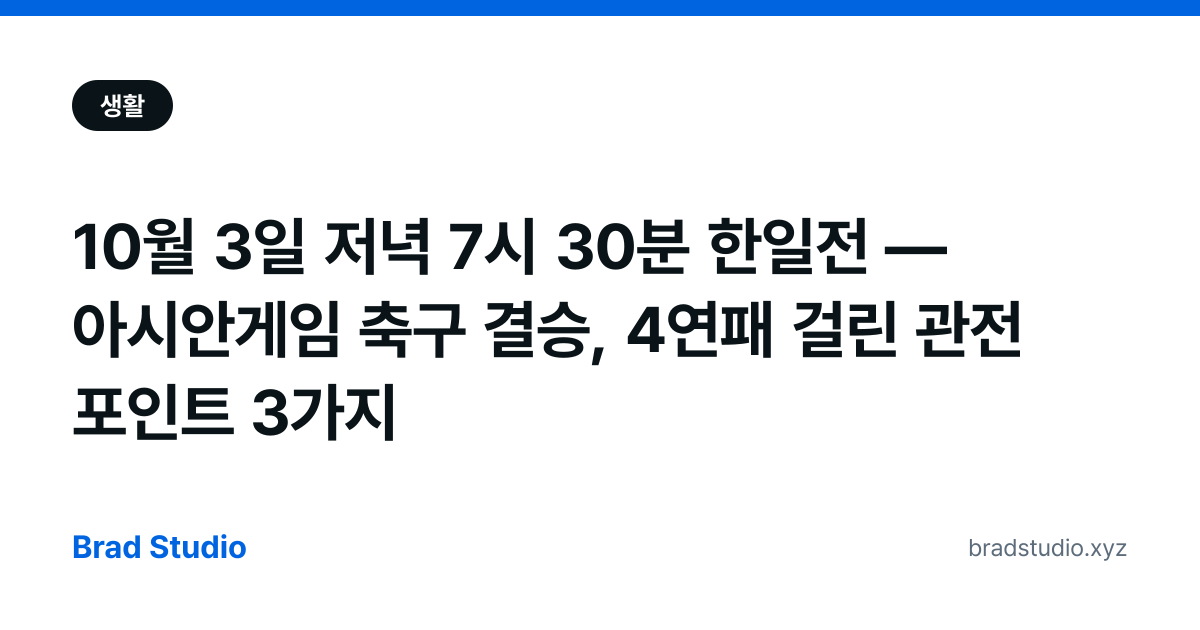
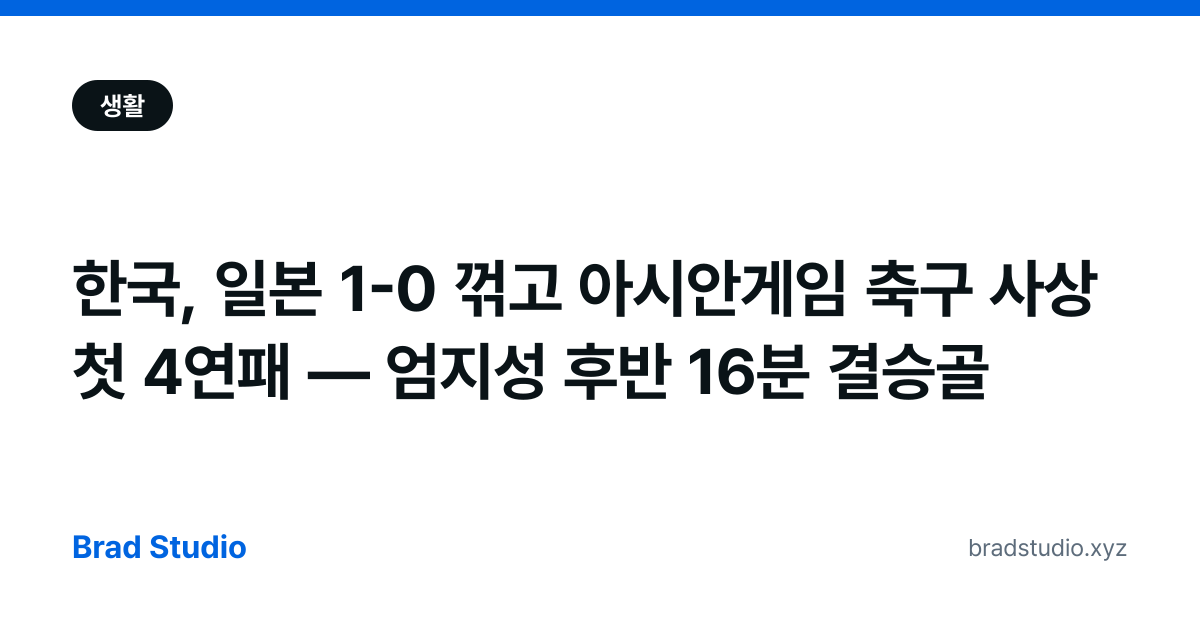
아시안게임 축구 결승 결과 반영: 한국 1-0 일본, 엄지성 결승골, 4연패
Claude-Session: https://claude.ai/code/session_016W68o6eYMen6oLnjrGLJi9

Changed region(s): [[0.0617, 0.3317, 0.925, 0.7238]]

diff --git a/src/content/blog/asian-games-football-final-2026.md b/src/content/blog/asian-games-football-final-2026.md
@@ -1,8 +1,9 @@
 ---
 contentId: "bs-20261001-001"
-title: '10월 3일 저녁 7시 30분 한일전 — 아시안게임 축구 결승, 4연패 걸린 관전 포인트 3가지'
-description: '2026 아이치·나고야 아시안게임 남자축구 결승은 10월 3일(토) 오후 7시 30분 도요타 스타디움 한일전입니다. 한국은 중국을 2-1로, 일본은 우즈베키스탄을 승부차기 9-8로 꺾었습니다. 4회 연속 금메달, 3대회 연속 결승 한일전, 중계 채널을 정리했습니다.'
+title: '한국, 일본 1-0 꺾고 아시안게임 축구 사상 첫 4연패 — 엄지성 후반 16분 결승골'
+description: '한국 U-23 대표팀이 10월 3일 도요타 스타디움에서 열린 2026 아이치·나고야 아시안게임 남자축구 결승에서 개최국 일본을 1-0으로 이겼습니다. 엄지성이 후반 16분 결승골을 넣었고, 한국은 아시안게임 남자축구 사상 처음 4회 연속 금메달을 땄습니다. 3대회 연속 결승 한일전 전승 기록과 준결승까지 흐름을 정리했습니다.'
 pubDate: 2026-10-01
+updatedDate: 2026-10-03
 thumbnail:
   url: 'https://images.unsplash.com/photo-1522778119026-d647f0596c20?crop=entropy&cs=tinysrgb&fit=max&fm=jpg&q=80&w=1080'
   alt: '조명이 켜진 축구 경기장'
@@ -23,7 +24,7 @@ secondaryKeywords:
   - '아시안게임 한일전 시간'
   - '아시안게임 축구 결승 중계'
   - '아시안게임 축구 4연패'
-  - '한국 중국 2-1'
+  - '엄지성 결승골'
   - '도요타 스타디움'
 intent: informational
 funnelStage: awareness
@@ -31,13 +32,25 @@ cluster: 'asian-games'
 clusterRole: supporting
 
 evergreen: false
-reviewAfter: 2026-10-04
+reviewAfter: 2026-10-10
 author: 'Brad Studio'
 internalLinks:
   - 'bs-20260929-002'
   - 'bs-20260929-004'
 
 sources:
+  - title: '일본 안방서 쓴 새 역사 한국 남자축구 사상 첫 4연패 — 이투데이'
+    url: 'https://www.etoday.co.kr/news/view/2632323'
+    accessedAt: 2026-10-03
+  - title: '금메달 또 한국이 가져갔다…일본 꺾고 AG 축구 4연패 — 한국경제'
+    url: 'https://www.hankyung.com/article/2026100319567'
+    accessedAt: 2026-10-03
+  - title: '엄지성, 결승 한일전서도 골 폭죽…한국 4회 연속 금메달 — 스포츠경향'
+    url: 'https://sports.khan.co.kr/article/202610032122003/'
+    accessedAt: 2026-10-03
+  - title: '짜릿한 한일전 1-0 승리…남자축구, 아시안게임 4연속 금메달 — 서울경제'
+    url: 'https://m.sedaily.com/article/20097965'
+    accessedAt: 2026-10-03
   - title: '남자 축구, 중국 2-1 꺾고 결승행⋯이영준 동점골ㆍ배준호 역전골 — 이투데이'
     url: 'https://www.etoday.co.kr/news/view/2631080'
     accessedAt: 2026-10-01
@@ -57,69 +70,73 @@ monetization:
   affiliateDisclosure: false
 
 faq:
-  - question: '아시안게임 축구 결승 한일전은 언제인가요?'
-    answer: '10월 3일(토) 오후 7시 30분(한국 시간), 일본 아이치현 도요타 스타디움에서 열립니다. 개천절 연휴 첫날 저녁입니다.'
+  - question: '아시안게임 축구 결승 한일전 결과는?'
+    answer: '한국이 일본을 1-0으로 이겼습니다. 10월 3일 일본 아이치현 도요타 스타디움 경기에서 엄지성이 후반 16분 결승골을 넣었습니다.'
+  - question: '4연패는 처음인가요?'
+    answer: '네. 한국은 2014 인천, 2018 자카르타·팔렘방, 2022 항저우에 이어 네 대회 연속 금메달을 땄습니다. 아시안게임 남자축구에서 4회 연속 우승은 처음입니다.'
+  - question: '결승골은 어떻게 나왔나요?'
+    answer: '후반 16분 양민혁의 크로스에서 이어진 공을 엄지성이 받아 수비수를 제친 뒤 왼발로 마무리했습니다.'
   - question: '한국은 결승에 어떻게 올라갔나요?'
     answer: '9월 30일 준결승에서 중국에 선제골을 내줬지만 전반 이영준의 동점골, 후반 37분 배준호의 역전골로 2-1로 이겼습니다.'
   - question: '일본은 누구를 이기고 올라왔나요?'
     answer: '같은 날 우즈베키스탄과 연장까지 1-1로 비긴 뒤 승부차기 9-8로 이겼습니다.'
-  - question: '어디서 볼 수 있나요?'
-    answer: '지상파 KBS·MBC·SBS가 중계하고, 각 방송사 웹·앱(KBS my K, MBC 온에어, SBS 온에어)에서 무료로 볼 수 있습니다. 유료 채널은 TV조선·SPOTV입니다. 채널별 편성은 경기 당일 편성표로 확인하세요.'
 
 seo:
   noindex: false
 ---
 
-개천절 연휴 첫날 저녁 7시 30분, 아시안게임 남자축구 결승에서 한국과 일본이 다시 만납니다. 이기면 4회 연속 금메달입니다.
 
-## 경기 정보
+한국이 일본 안방에서 일본을 1-0으로 꺾고 금메달을 땄습니다. 아시안게임 남자축구 사상 첫 4회 연속 우승입니다.
+
+## 경기 결과
 
 | 항목 | 내용 |
 |---|---|
-| 일시 | **10월 3일(토) 오후 7시 30분** (한국 시간) |
-| 장소 | 일본 아이치현 도요타 스타디움 |
-| 대진 | 한국 vs 일본 |
-| 3·4위전 | 중국 vs 우즈베키스탄 |
-| 중계 | KBS·MBC·SBS(무료), TV조선·SPOTV |
+| 일시·장소 | 10월 3일(토) 오후 7시 30분, 일본 아이치현 도요타 스타디움 |
+| 스코어 | **한국 1-0 일본** (정규시간 종료) |
+| 결승골 | **엄지성** 후반 16분 (양민혁 크로스에서 시작) |
+| 전반 | 0-0 |
+| 감독 | 이민성 (U-23 대표팀) |
+
+엄지성은 양민혁의 크로스에서 이어진 공을 받아 수비수를 제친 뒤 왼발로 골망을 흔들었습니다.
 
 ---
 
-## 관전 포인트 1. 4회 연속 금메달
+## 1. 사상 첫 4회 연속 금메달
 
 | 대회 | 결승 결과 |
 |---|---|
 | 2014 인천 | 한국 1-0 북한 |
 | 2018 자카르타·팔렘방 | 한국 2-1 일본 (연장) |
 | 2022 항저우 | 한국 2-1 일본 |
-| **2026 아이치·나고야** | **한국 vs 일본** |
+| **2026 아이치·나고야** | **한국 1-0 일본** |
 
-한국은 2014년부터 네 대회 연속 결승에 올랐습니다. 이번에 이기면 아시안게임 남자축구 4연패입니다. 금메달을 딴 선수들은 병역법에 따라 예술·체육요원 편입 대상이 됩니다.
-
----
-
-## 관전 포인트 2. 3대회 연속 결승 한일전
-
-한국과 일본은 2018년, 2022년에 이어 세 대회 연속 결승에서 맞붙습니다. 앞선 두 번은 모두 한국이 2-1로 이겼습니다.
-
-일본은 9월 30일 준결승에서 우즈베키스탄에 전반 선제골을 내준 뒤 이시바시 세나의 동점골로 1-1을 만들었습니다. 연장 120분 뒤 승부차기 9-8로 겨우 올라왔습니다. 연장전을 치른 만큼 결승까지 회복 시간이 변수입니다.
+네 대회 연속 정상은 아시안게임 남자축구에서 처음입니다. 금메달을 딴 선수들은 병역법에 따라 예술·체육요원 편입 대상이 됩니다.
 
 ---
 
-## 관전 포인트 3. 역전승의 흐름
+## 2. 3대회 연속 결승 한일전 전승
+
+한국과 일본은 2018년, 2022년, 2026년 세 대회 연속 결승에서 맞붙었고 세 번 모두 한국이 이겼습니다.
+
+일본은 9월 30일 준결승에서 우즈베키스탄에 전반 선제골을 내준 뒤 이시바시 세나의 동점골로 1-1을 만들었습니다. 연장 120분 뒤 승부차기 9-8로 겨우 올라왔습니다. 연장 120분을 뛰고 사흘 만에 결승을 치렀습니다.
+
+---
+
+## 3. 결승까지 오는 길
 
 한국은 준결승에서 중국에 전반 22분 선제골을 내줬습니다.
 
 - 전반: 이영준 동점골
 - 후반 37분: 배준호 역전골 (헤더)
 
-선제 실점 뒤 뒤집은 경기라 결승에서도 초반 실점 관리가 관건입니다. 한국은 정규시간 안에 끝냈고, 일본은 120분을 뛰었습니다.
+준결승에서 선제골을 내준 뒤 뒤집었고, 결승에서는 무실점으로 막았습니다.
 
 ---
 
-## 연휴 저녁 관전 준비
+## 다시 보기
 
-- **무료 시청**: 지상파 3사 웹·앱에서 회원 가입 없이 볼 수 있는 경우가 많습니다. 앱은 미리 깔아 두세요.
-- **채널 정리**: 아시안게임 전체 중계 채널은 [아시안게임 2026 무료로 보는 법](/blog/asian-games-2026-free-broadcast/)에 있습니다.
+- **하이라이트**: 지상파 3사 웹·앱과 포털 스포츠 섹션에서 볼 수 있습니다. 대회 전체 중계 채널은 [아시안게임 2026 무료로 보는 법](/blog/asian-games-2026-free-broadcast/)에 있습니다.
 - **연휴 일정**: 10월 3~5일 사흘 연휴입니다. 날짜와 연차 조합은 [개천절 대체공휴일 달력](/blog/national-foundation-day-substitute-holiday-2026/)을 참고하세요.
 
-경기 후 결과로 이 글을 갱신합니다. 대표팀 공식 일정은 [대한축구협회](https://www.kfa.or.kr)에서 확인하세요.
+대표팀 귀국 일정과 공식 기록은 [대한축구협회](https://www.kfa.or.kr)에서 확인하세요.

diff --git a/src/content/blog/national-foundation-day-weekend-weather-2026.md b/src/content/blog/national-foundation-day-weekend-weather-2026.md
@@ -123,4 +123,4 @@ seo:
 | 실내 전시·영화 | 4일(일) 오후~저녁 |
 | 귀가·장거리 운전 | 5일(월) 오후 |
 
-3일 저녁 7시 30분에는 아시안게임 축구 결승 한일전이 있습니다([결승 관전 포인트](/blog/asian-games-football-final-2026/)). 연휴 날짜와 은행 휴무는 [개천절 대체공휴일 달력](/blog/national-foundation-day-substitute-holiday-2026/)에 정리했습니다.
+3일 저녁 아시안게임 축구 결승 한일전에서 한국이 1-0으로 이겨 4연패를 달성했습니다([결승 결과](/blog/asian-games-football-final-2026/)). 연휴 날짜와 은행 휴무는 [개천절 대체공휴일 달력](/blog/national-foundation-day-substitute-holiday-2026/)에 정리했습니다.
